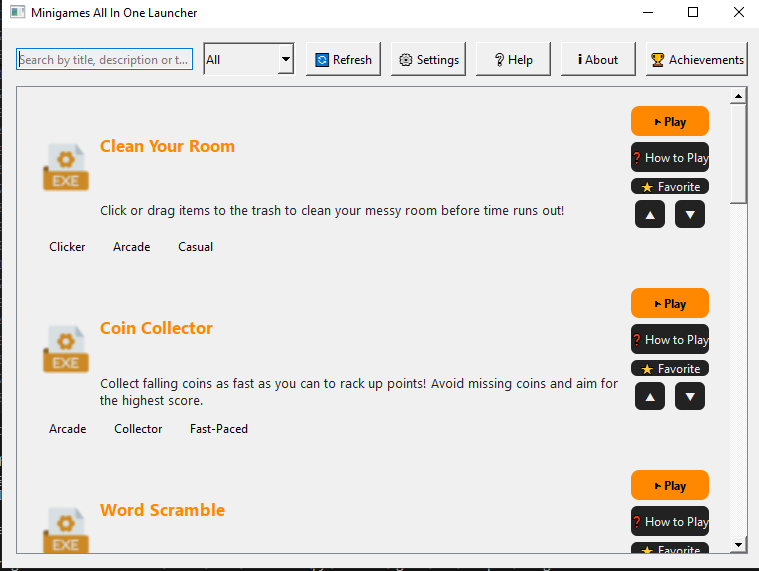
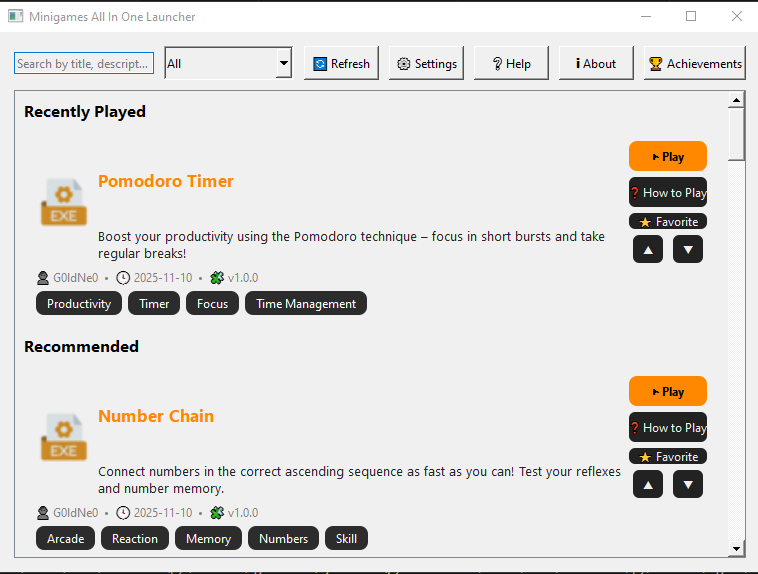
a

Changed region(s): [[0.0, 0.0, 1.0, 1.0]]

diff --git a/README.md b/README.md
@@ -69,9 +69,9 @@ Secure your launcher with a password to prevent unauthorized access.
 
 ### 📷 Screenshots
 
-![Main Window](https://github.com/ne0gl1tch20/Minigames-All-In-One/tree/main/screenshots/MainWindow.png)
+![Main Window](https://raw.githubusercontent.com/ne0gl1tch20/Minigames-All-In-One/main/screenshots/MainWindow.png)
 
-![Settings Window](https://github.com/ne0gl1tch20/Minigames-All-In-One/tree/main/screenshots/SettingsWindow.png)
+![Settings Window](https://raw.githubusercontent.com/ne0gl1tch20/Minigames-All-In-One/main/screenshots/SettingsWindow.png)
 
 ---
 
